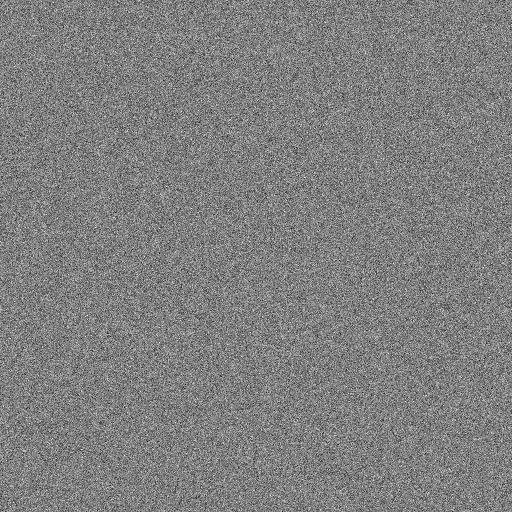
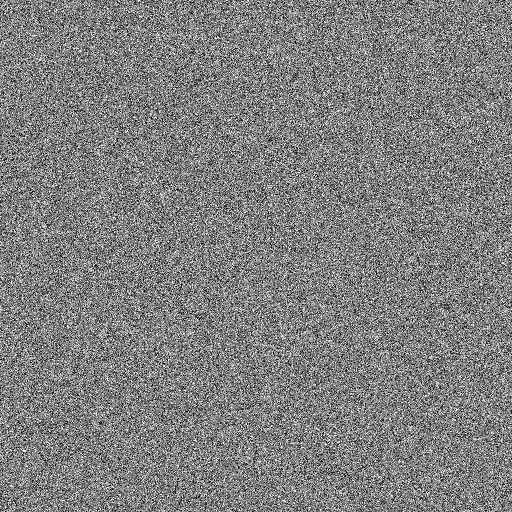
Workshop noise: actually visible — drop blend mode, more contrast, more opacity
Three changes:
1. Regenerate noise tile with std=50 (was 28). Pixel values now span
   roughly 30-220 instead of 100-156, so the texture has actual
   contrast instead of a faint cast.
2. Drop mix-blend-mode entirely — multiply was darkening, then opacity
   was blending most of that darkening back toward the original. Net
   change was ~5%, invisible. Plain opacity lets the grain land
   directly on the surface.
3. Opacity to 0.25 light / 0.15 dark.

Changed region(s): [[0.0, 0.0, 1.0, 1.0]]

diff --git a/src/styles/components.css b/src/styles/components.css
@@ -1012,10 +1012,9 @@
   border-top: var(--border-hairline) solid color-mix(in oklch, var(--success-400) 30%, var(--neutral-300));
 }
 
-/* Real Gaussian noise tile — 512x512 monochrome, pre-rendered. Tiles
-   seamlessly enough at this density that the repeat isn't readable.
-   Layered as a ::before so it sits over the section background but
-   under the content. */
+/* Real Gaussian noise tile — 512x512 monochrome, pre-rendered. No
+   blend mode (it double-attenuates with opacity); plain opacity lets
+   the grain land cleanly on the surface. */
 .workshop-bridge::before {
   content: '';
   position: absolute;
@@ -1023,8 +1022,7 @@
   background-image: url('/images/noise-tile.png');
   background-repeat: repeat;
   background-size: 512px 512px;
-  opacity: 0.12;
-  mix-blend-mode: multiply;
+  opacity: 0.25;
   pointer-events: none;
   z-index: -1;
 }
@@ -1035,9 +1033,7 @@
 }
 
 .dark .workshop-bridge::before {
-  /* Dark surfaces want the grain lighter, not darker — flip the blend. */
-  mix-blend-mode: screen;
-  opacity: 0.06;
+  opacity: 0.15;
 }
 
 .workshop-bridge-inner {